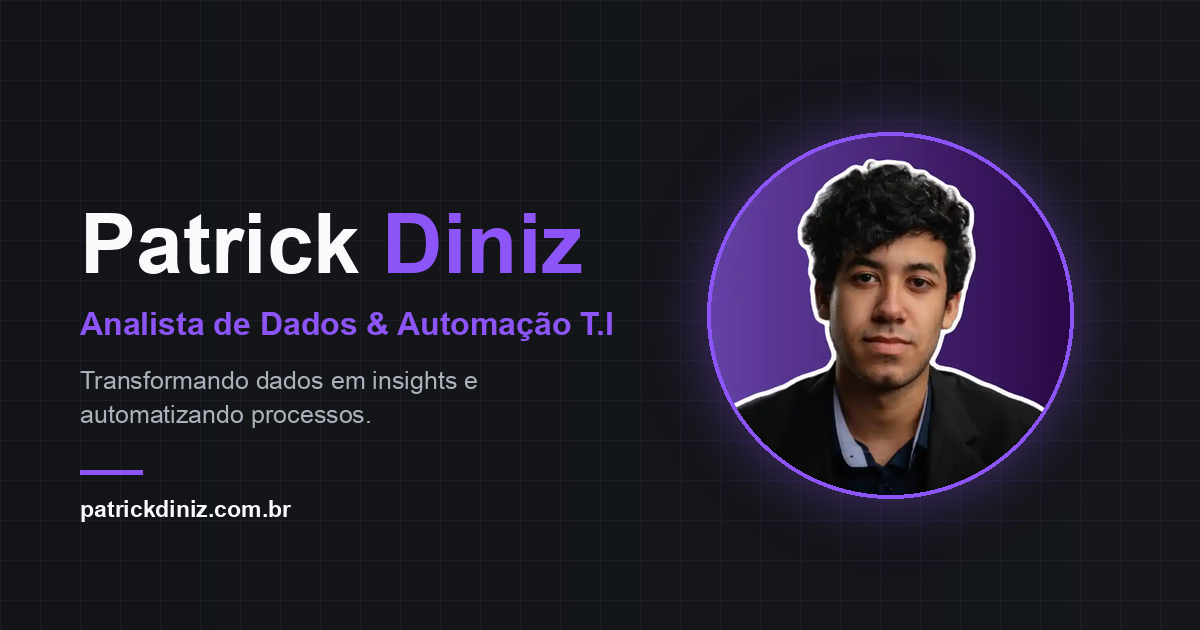
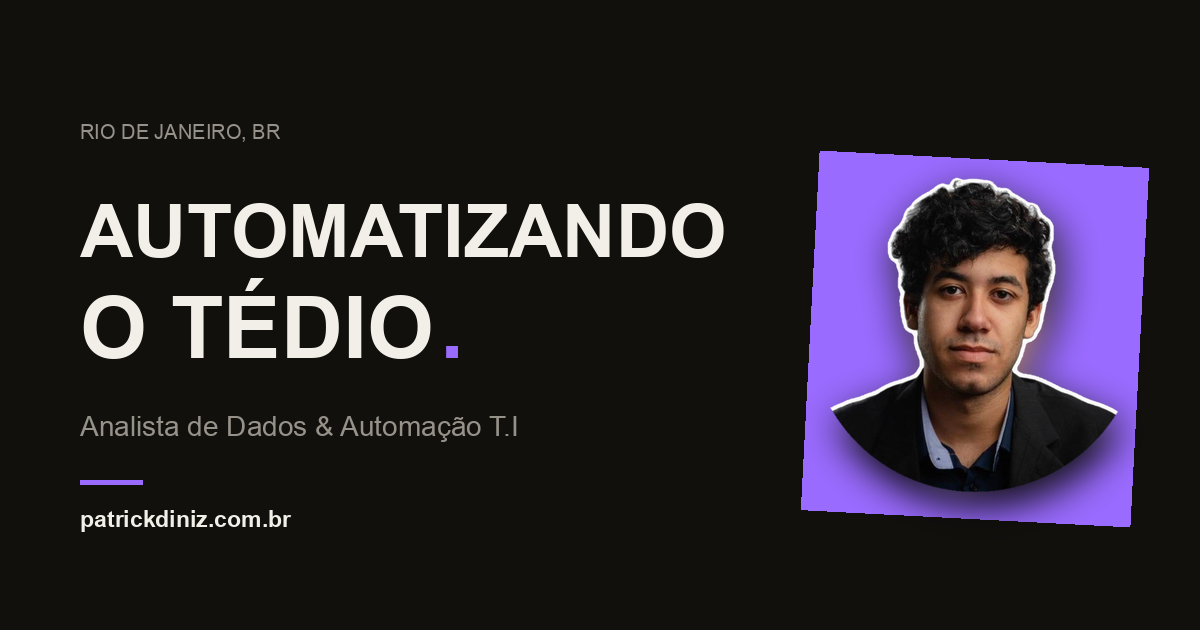
feat(meta): move title, description and link preview to the 2026 identity

diff --git a/index.html b/index.html
@@ -4,9 +4,9 @@
 <head>
   <meta charset="UTF-8" />
   <meta name="viewport" content="width=device-width, initial-scale=1.0" />
-  <title>Patrick Diniz - Analista de Dados & Automação T.I</title>
+  <title>Patrick Diniz — Automatizando o tédio</title>
   <meta name="description"
-    content="Portfólio de Patrick Diniz - Especialista em Análise de Dados, Automação e Desenvolvimento Web. Transformando dados em insights com soluções inovadoras." />
+    content="Analista de Dados & Automação T.I no Rio de Janeiro. Transformo trabalho repetitivo em código e dados dispersos em decisões, com Python, Power BI e Power Automate." />
 
   <!--
     X-Content-Type-Options e X-Frame-Options só valem como cabeçalho HTTP; em
@@ -21,22 +21,23 @@
   <!-- Open Graph Meta Tags -->
   <meta property="og:site_name" content="Patrick Diniz" />
   <meta property="og:locale" content="pt_BR" />
-  <meta property="og:title" content="Patrick Diniz - Analista de Dados & Automação T.I" />
+  <meta property="og:title" content="Patrick Diniz — Automatizando o tédio" />
   <meta property="og:description"
-    content="Portfólio de Patrick Diniz - Especialista em Análise de Dados, Automação e Desenvolvimento Web. Transformando dados em insights com soluções inovadoras." />
+    content="Analista de Dados & Automação T.I no Rio de Janeiro. Transformo trabalho repetitivo em código e dados dispersos em decisões." />
   <meta property="og:type" content="website" />
   <meta property="og:url" content="https://www.patrickdiniz.com.br/" />
   <meta property="og:image" content="https://www.patrickdiniz.com.br/og-image.png" />
   <meta property="og:image:type" content="image/png" />
   <meta property="og:image:width" content="1200" />
   <meta property="og:image:height" content="630" />
-  <meta property="og:image:alt" content="Patrick Diniz - Analista de Dados & Automação T.I" />
+  <meta property="og:image:alt" content="Patrick Diniz — Automatizando o tédio" />
 
   <meta name="twitter:card" content="summary_large_image" />
-  <meta name="twitter:title" content="Patrick Diniz - Analista de Dados & Automação T.I" />
-  <meta name="twitter:description" content="Portfólio profissional com projetos de análise de dados e automação" />
+  <meta name="twitter:title" content="Patrick Diniz — Automatizando o tédio" />
+  <meta name="twitter:description"
+    content="Analista de Dados & Automação T.I no Rio de Janeiro. Transformo trabalho repetitivo em código e dados dispersos em decisões." />
   <meta name="twitter:image" content="https://www.patrickdiniz.com.br/og-image.png" />
-  <meta name="twitter:image:alt" content="Patrick Diniz - Analista de Dados & Automação T.I" />
+  <meta name="twitter:image:alt" content="Patrick Diniz — Automatizando o tédio" />
 
   <link
     rel="preload"
